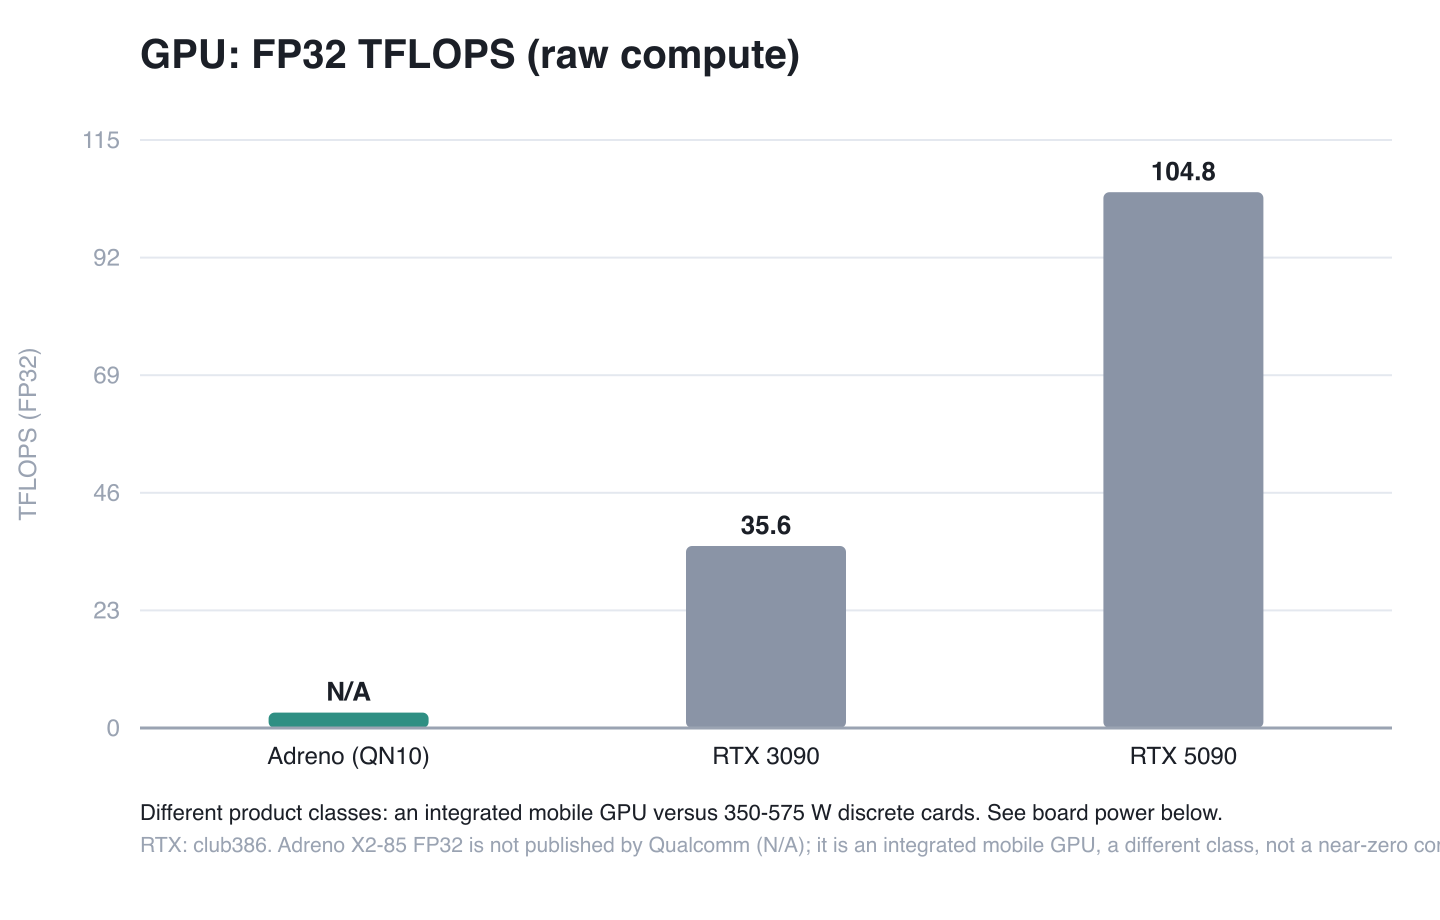
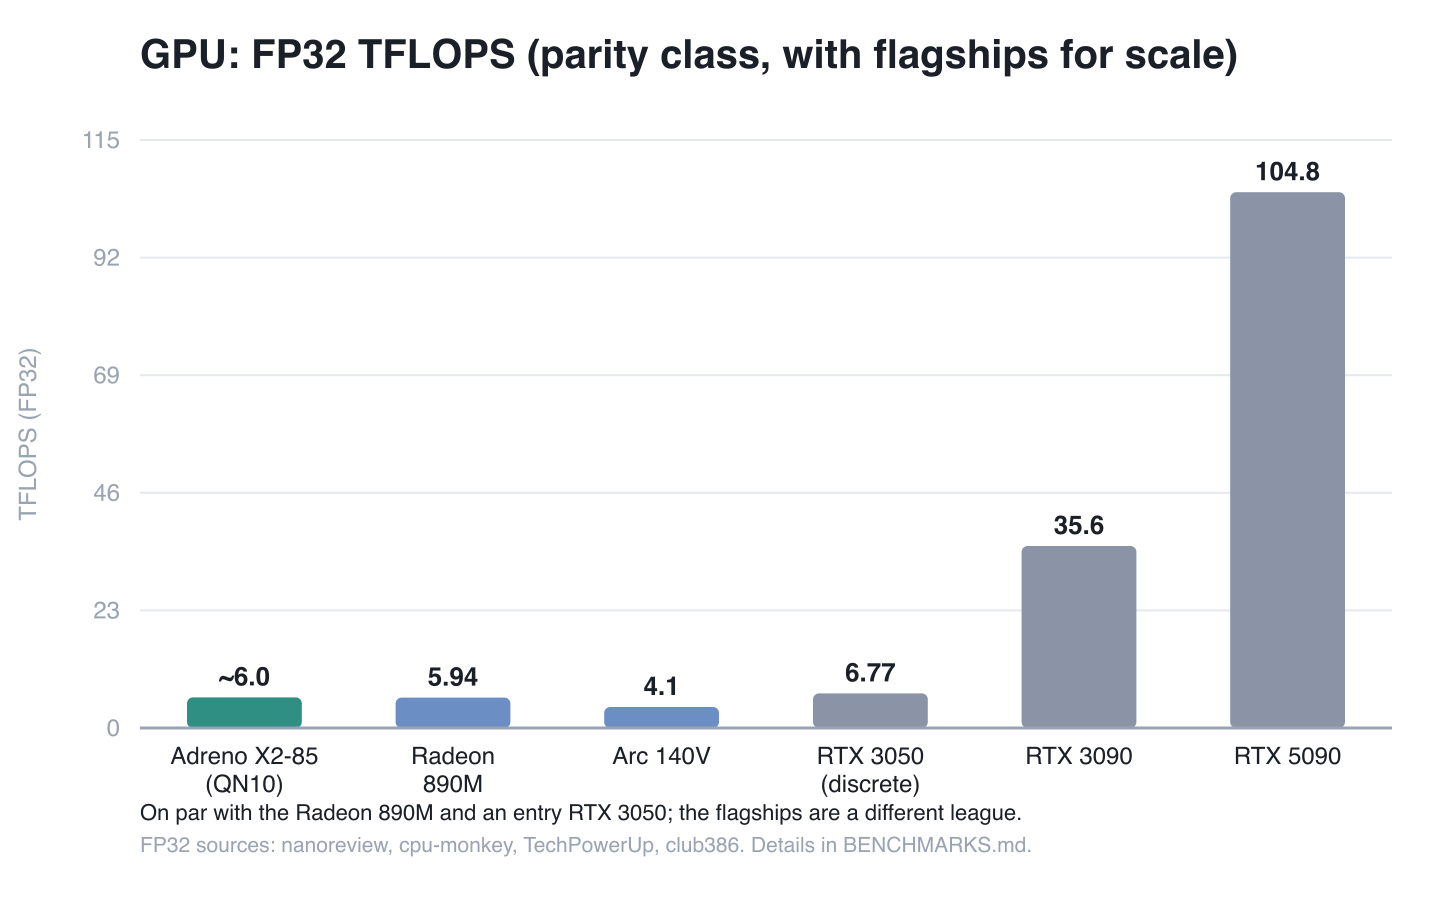
Charts: add CPU and GPU compute-per-watt, parity-class GPUs
Add CPU multi-core score per watt and GPU FP32 compute per watt charts.
Expand the GPU FP32 chart with parity-class parts (Radeon 890M, Arc 140V,
RTX 3050) alongside the flagships. Replace the raw power chart with compute
per watt. Update README and BENCHMARKS tables; reword to hobbyist work.

Changed region(s): [[0.6875, 0.1522, 0.9375, 0.8522], [0.0938, 0.5478, 1.0, 0.9435], [0.375, 0.0304, 0.875, 0.0913]]

diff --git a/images/mkcharts.py b/images/mkcharts.py
@@ -10,6 +10,8 @@ os.makedirs(OUT, exist_ok=True)
 QN10 = "#2f8f83"      # teal, the QN10 bar
 REF = "#8a94a6"       # slate grey, reference bars
 REF2 = "#c2c9d6"      # lighter slate, second series
+INTG = "#6b8fc4"      # blue, other integrated GPUs
+DISC = "#8a94a6"      # slate, discrete GPUs
 TEXT = "#1b1f27"
 GRID = "#e4e8ef"
 AXIS = "#9aa3b2"
@@ -91,8 +93,11 @@ def chart(path, title, bars, ymax, ylabel, source, grouped=None, note=None):
             s.append(f'<text x="{x+bw/2:.1f}" y="{y-6:.1f}" font-size="13" '
                      f'text-anchor="middle" fill="{TEXT}" '
                      f'font-weight="600">{esc(vlabel)}</text>')
-            s.append(f'<text x="{x+bw/2:.1f}" y="{y0+18:.0f}" font-size="12" '
-                     f'text-anchor="middle" fill="{TEXT}">{esc(label)}</text>')
+            parts = str(label).split("\n")
+            for li, part in enumerate(parts):
+                s.append(f'<text x="{x+bw/2:.1f}" y="{y0+18+li*14:.0f}" '
+                         f'font-size="12" text-anchor="middle" '
+                         f'fill="{TEXT}">{esc(part)}</text>')
     s.append(f'<line x1="{ml}" y1="{y0}" x2="{ml+pw}" y2="{y0}" '
              f'stroke="{AXIS}" stroke-width="1.5"/>')
     yb = H - mb + 46
@@ -155,29 +160,52 @@ chart(
          "the RTX cards draw 350-575 W.",
 )
 
-# 3. GPU FP32 and board power (class comparison)
+# 3. GPU FP32, parity class plus flagships for scale
 chart(
     "gpu-fp32.svg",
-    "GPU: FP32 TFLOPS (raw compute)",
-    [("Adreno (QN10)", 3, QN10, "N/A"),
-     ("RTX 3090", 35.6, REF),
-     ("RTX 5090", 104.8, REF)],
+    "GPU: FP32 TFLOPS (parity class, with flagships for scale)",
+    [("Adreno X2-85\n(QN10)", 6.0, QN10, "~6.0"),
+     ("Radeon\n890M", 5.94, INTG),
+     ("Arc 140V", 4.1, INTG),
+     ("RTX 3050\n(discrete)", 6.77, DISC),
+     ("RTX 3090", 35.6, DISC),
+     ("RTX 5090", 104.8, DISC)],
     115, "TFLOPS (FP32)",
-    "RTX: club386. Adreno X2-85 FP32 is not published by Qualcomm (N/A); it is "
-    "an integrated mobile GPU, a different class, not a near-zero compute part.",
-    note="Different product classes: an integrated mobile GPU versus 350-575 W "
-         "discrete cards. See board power below.",
+    "FP32 sources: nanoreview, cpu-monkey, TechPowerUp, club386. Details in "
+    "BENCHMARKS.md.",
+    note="On par with the Radeon 890M and an entry RTX 3050; the flagships "
+         "are a different league.",
 )
 
 chart(
-    "gpu-power.svg",
-    "GPU board power (watts)",
-    [("QN10 SoC", 50, QN10),
-     ("RTX 3090", 350, REF),
-     ("RTX 5090", 575, REF)],
-    650, "watts (TDP / SoC)",
-    "RTX TDP: club386. QN10 figure is the whole system-on-chip envelope, "
-    "not the GPU alone.",
-    note="The discrete GPU alone draws 7-11x the entire QN10's power.",
+    "gpu-perf-per-watt.svg",
+    "GPU: compute per watt (FP32 TFLOPS / W)",
+    [("Adreno X2-85\n(QN10)", 0.40, QN10, "0.40"),
+     ("Radeon\n890M", 0.40, INTG, "0.40"),
+     ("Arc 140V", 0.27, INTG),
+     ("RTX 5090", 0.182, DISC, "0.18"),
+     ("RTX 3090", 0.102, DISC, "0.10"),
+     ("RTX 3050", 0.097, DISC, "0.10")],
+    0.48, "TFLOPS per watt",
+    "Power: integrated at 15 W configurable TDP; discrete at board TDP. "
+    "FP32 and sources in BENCHMARKS.md.",
+    note="Integrated GPUs (incl. the Adreno) lead on compute per watt; the "
+         "5090 is the most efficient discrete card.",
 )
+
+# 6. CPU compute per watt (Geekbench 6 multi / power at the multi-core load)
+chart(
+    "cpu-perf-per-watt.svg",
+    "CPU: multi-core score per watt (at load)",
+    [("X2 Elite\nExtreme", 296, QN10, "296"),
+     ("Apple\nM4 Max", 446, DISC),
+     ("Ryzen AI 9\n375", 320, DISC),
+     ("Core Ultra\n258V", 367, DISC)],
+    520, "Geekbench 6 multi / watt",
+    "Power at the multi-core load (approx): X2 ~79 W (notebookcheck "
+    "measured); M4 Max ~56 W, Ryzen ~47 W, 258V ~30 W (representative).",
+    note="The X2 posts top-tier scores but draws the most power, so the M4 "
+         "Max leads efficiency here. Approximate, not an iso-power test.",
+)
+
 print("done")

diff --git a/README.md b/README.md
@@ -49,10 +49,10 @@ Verified on the running system, kernel qcom-next 7.4-rc1 with the patches in
 ## How the QN10 compares
 
 Full methodology and the measured Linux numbers are in
-[BENCHMARKS.md](BENCHMARKS.md). The charts below use published reviewer and
-vendor figures for the comparison parts, cited there.
+[BENCHMARKS.md](BENCHMARKS.md). The charts use published reviewer and vendor
+figures for the comparison parts, cited there.
 
-### CPU
+### CPU performance
 
 ![CPU: Geekbench 6 single and multi-core](images/cpu-geekbench.png)
 
@@ -64,8 +64,24 @@ vendor figures for the comparison parts, cited there.
 | Intel Core Ultra 7 258V | ~2,724 | ~11,003 |
 
 The X2 silicon wins single-core broadly, trails the M4 Max in multi-core, and
-leads the current Intel and AMD laptop parts in both. On Linux the QN10 also
-posts a 7-zip rating near 133,500 MIPS, in high-end desktop 16-core range.
+leads the current Intel and AMD laptop parts in both. On Linux the QN10 posts
+a 7-zip rating near 133,500 MIPS, in high-end desktop 16-core range.
+
+### CPU efficiency (compute per watt)
+
+![CPU: multi-core score per watt](images/cpu-perf-per-watt.png)
+
+| CPU | GB6 multi | power at load | score / watt |
+|-----|----------:|--------------:|-------------:|
+| Apple M4 Max | ~25,000 | ~56 W | ~446 |
+| Intel Core Ultra 7 258V | ~11,003 | ~30 W | ~367 |
+| AMD Ryzen AI 9 HX 375 | ~15,030 | ~47 W | ~320 |
+| Snapdragon X2 Elite Extreme | ~23,400 | ~79 W | ~296 |
+
+The X2 posts top-tier absolute scores but draws the most power, so the Apple
+M4 Max leads efficiency here; the X2 is competitive with AMD and Intel. Power
+at load is approximate (the X2 figure is review-measured), not an iso-power
+test.
 
 ### NPU and AI accelerator
 
@@ -82,32 +98,38 @@ fraction of the power, on-die, and usable from Linux through this work.
 
 ### GPU raw compute
 
-![GPU: FP32 TFLOPS](images/gpu-fp32.png)
+![GPU: FP32 TFLOPS, parity class with flagships](images/gpu-fp32.png)
 
-| GPU | FP32 TFLOPS |
+| GPU | FP32 TFLOPS | Class |
+|-----|------------:|-------|
+| Adreno X2-85 (QN10) | ~6.0 (est.) | integrated |
+| AMD Radeon 890M | 5.94 | integrated |
+| Intel Arc 140V | 4.1 | integrated |
+| RTX 3050 | 6.77 | entry discrete |
+| RTX 3090 | 35.6 | flagship |
+| RTX 5090 | 104.8 | flagship |
+
+The Adreno X2-85 is a top-tier integrated GPU: on par with the Radeon 890M
+and an entry RTX 3050, ahead of the Arc 140V. The flagships are a different
+league. Qualcomm does not publish an FP32 figure; the ~6 is a community
+estimate (nanoreview).
+
+### GPU efficiency (compute per watt)
+
+![GPU: compute per watt](images/gpu-perf-per-watt.png)
+
+| GPU | FP32 / watt |
 |-----|------------:|
-| Adreno X2-85 (QN10) | not published (N/A) |
-| RTX 3090 | 35.6 |
-| RTX 5090 | 104.8 |
+| Adreno X2-85 (QN10) | ~0.40 |
+| AMD Radeon 890M | ~0.40 |
+| Intel Arc 140V | ~0.27 |
+| RTX 5090 | ~0.18 |
+| RTX 3090 | ~0.10 |
+| RTX 3050 | ~0.10 |
 
-Qualcomm does not publish an FP32 figure for the Adreno X2 and sells it on
-performance per watt. It is an integrated mobile GPU, not a discrete-class
-part. It renders 4K cleanly and holds full clock with no throttling, but it
-is not in the same league as a discrete card for raw throughput.
-
-### GPU power class
-
-![GPU board power](images/gpu-power.png)
-
-| Part | Power |
-|------|------:|
-| QN10 whole SoC | ~15-50 W |
-| RTX 3090 | 350 W |
-| RTX 5090 | 575 W |
-
-The discrete GPU alone draws 7 to 11 times the entire QN10's power. The honest
-reading: the QN10 is a low-power ARM machine with a strong CPU and a capable
-integrated GPU and NPU, not a discrete-GPU workstation.
+Integrated GPUs, including the Adreno, deliver the most compute per watt;
+among discrete cards the newer 5090 is the most efficient. Integrated power
+uses the 15 W configurable TDP basis; discrete uses board TDP.
 
 ## What does not work, and why
 
@@ -160,5 +182,5 @@ tools/
 - Scripts in `tools/`: GPL-2.0-or-later unless a file states otherwise.
 - Documentation (this file, `STATUS.md`, `AGENTS.md`): CC-BY-4.0.
 
-This is unofficial community work. It is not endorsed by ASUS or Qualcomm,
+This is unofficial hobbyist work. It is not endorsed by ASUS or Qualcomm,
 and it comes with no warranty.

diff --git a/BENCHMARKS.md b/BENCHMARKS.md
@@ -72,26 +72,29 @@ The GPU runs on the open `turnip` Vulkan driver and `freedreno` OpenGL
 driver. Under a sustained heavy run it holds its full clock with no thermal
 throttling.
 
-## GPU versus desktop discrete cards
+## GPU versus other GPUs
 
-Set expectations correctly: the Adreno X2-85 is an **integrated mobile GPU**
-inside a roughly 15 to 50 W system-on-chip. A GeForce RTX 3090 or RTX 5090 is
-a 350 to 575 W discrete card. They are different product classes. Qualcomm
-does not publish an FP32 TFLOPS figure for the Adreno X2 and emphasizes
-performance per watt instead, so a precise GPU-to-GPU FP32 ratio is not
-available. For raw graphics and compute throughput the discrete cards are far
-ahead; the Adreno's argument is power and integration, not peak throughput.
+The Adreno X2-85 is an integrated mobile GPU inside a roughly 15 to 50 W
+system-on-chip. The fair peers are other top integrated GPUs and entry
+discrete cards, not a 350 to 575 W flagship.
 
-| GPU | FP32 | Memory bandwidth | Board power |
-|-----|------|------------------|-------------|
-| Adreno X2-85 (QN10) | not published | shared ~81 GB/s measured (152 GB/s SoC spec) | part of a ~15-50 W SoC |
-| RTX 3090 | 35.6 TFLOPS | 936 GB/s | 350 W |
-| RTX 5090 | 104.8 TFLOPS | 1,792 GB/s | 575 W |
+| GPU | FP32 TFLOPS | Class | Power basis |
+|-----|------------:|-------|-------------|
+| Adreno X2-85 (QN10) | ~6.0 (est., nanoreview) | integrated | part of ~15-50 W SoC |
+| AMD Radeon 890M | 5.94 | integrated | 15 W cTDP |
+| Intel Arc 140V | 4.1 | integrated | 15 W cTDP |
+| RTX 3050 | 6.77 | entry discrete | 70 W |
+| RTX 3090 | 35.6 | flagship | 350 W |
+| RTX 5090 | 104.8 | flagship | 575 W |
 
-RTX figures: [club386](https://www.club386.com/nvidia-geforce-rtx-5090-vs-rtx-3090/),
-[bestgpusforai](https://www.bestgpusforai.com/gpu-comparison/5090-vs-3090).
-Treat the glmark2 score above as a health and class check, not as a number
-comparable to desktop 3DMark results.
+The Adreno X2-85 is on par with the Radeon 890M and an entry RTX 3050, ahead
+of the Arc 140V. Qualcomm does not publish an FP32 figure; the ~6 TFLOPS is a
+community estimate. On compute per watt (FP32 divided by the power basis
+above) the integrated GPUs lead at about 0.27 to 0.40 TFLOPS/W, the 5090 is
+the most efficient discrete card at about 0.18, and the 3090 and 3050 are near
+0.10. The flagships still win raw throughput by a wide margin; the Adreno's
+argument is efficiency and integration. Sources: nanoreview, cpu-monkey,
+TechPowerUp, club386.
 
 ## NPU versus desktop tensor throughput
 
